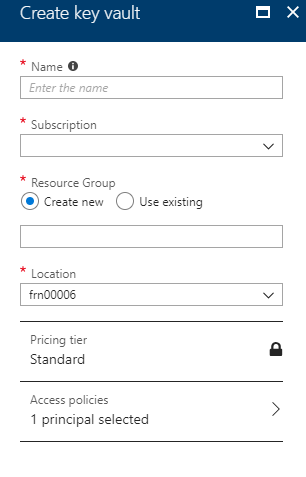
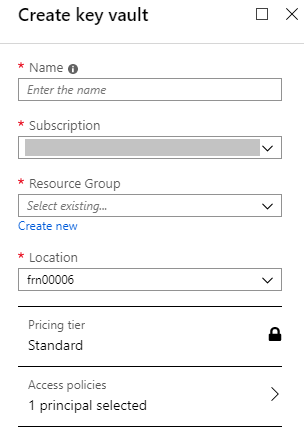
Updated create key vault section

Changed region(s): [[0.0592, 0.1182, 0.9474, 0.5318], [0.0592, 0.5614, 0.9474, 0.9455], [0.0, 0.0, 1.0, 0.0886]]

diff --git a/articles/azure/azs-how-create-service-fabric-portal.md b/articles/azure/azs-how-create-service-fabric-portal.md
@@ -3,8 +3,8 @@ title: How to create a Service Fabric cluster using the UKCloud Azure Stack Hub 
 description: Provides help for creating a Service Fabric cluster on UKCloud for Microsoft Azure
 services: azure-stack
 author: Bailey Lawson
-reviewer: BaileyLawson
-lastreviewed: 14/03/2019 17:00:00
+reviewer: William Turner
+lastreviewed: 30/03/2020
 
 toc_rootlink: Users
 toc_sub1: How To
@@ -54,7 +54,7 @@ Before creating a Service Fabric cluster, it is necessary to create a key vault 
 
    - **Subscription** - This is your UKCloud for Microsoft Azure subscription.
 
-   - **Resource Group** - Select an existing resource group, or create a new one by typing a name for your new resource group.
+   - **Resource Group** - Select an existing resource group, or create a new one by clicking the **Create new** link and then typing a name for your new resource group in the pop-out window.
 
    - **Location** - This will be `frn00006`, which is the Azure Stack Hub region.
 
